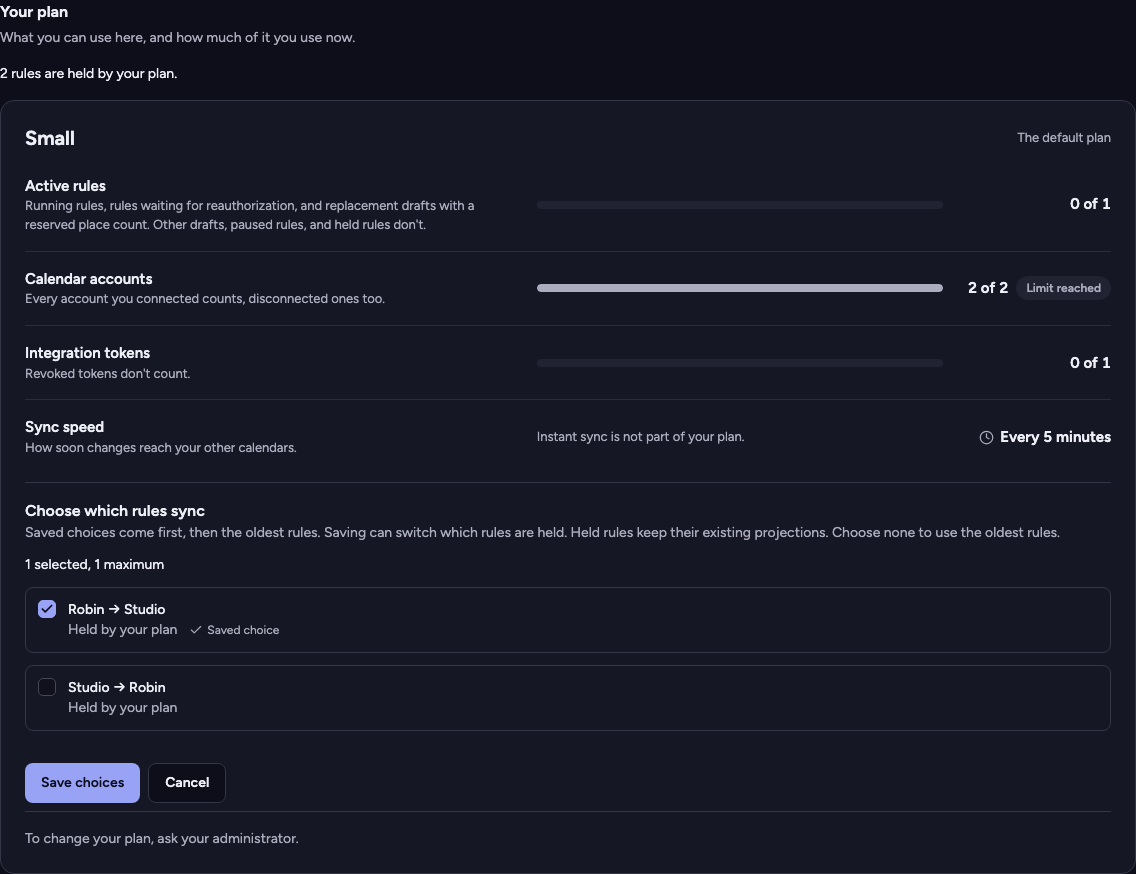
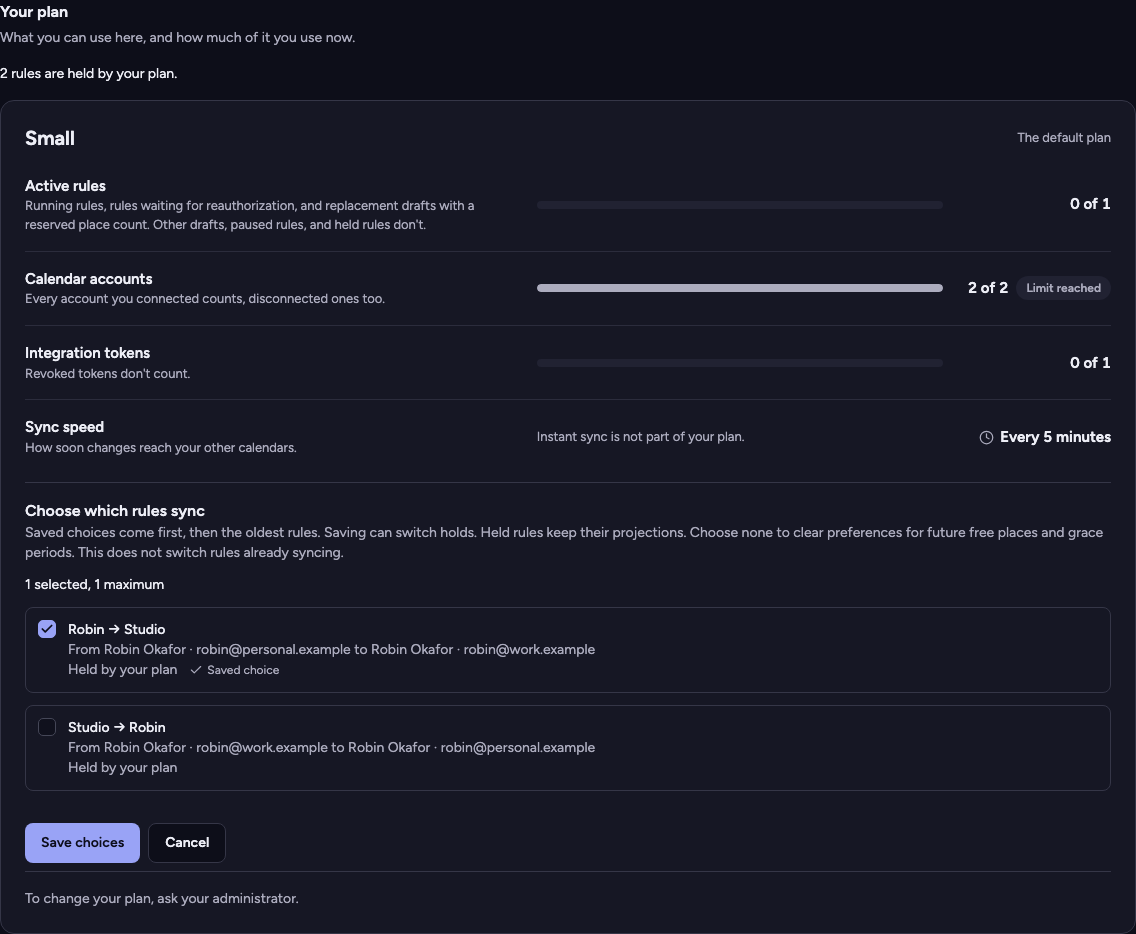
Show account identities in chooser review captures

diff --git a/docs/assets/reviews/plan-hold/README.md b/docs/assets/reviews/plan-hold/README.md
@@ -1,10 +1,12 @@
 # Plan Hold UI review captures
 
-Synthetic development preview only. Before: merged main262e8efd. After: PR3b implementation d011b084. Light and Twilight dark,1440 and390px. Your plan and Preview use section captures; Rules and Overview use viewport captures.
+Synthetic development preview only. Before: merged main262e8efd. After: PR3b implementation d011b084, with the chooser refreshed after the final review fix bbb14234. Light and Twilight dark,1440 and390px. Your plan and Preview use section captures; Rules and Overview use viewport captures.
 
 The baseline has a Household Plan with capacity1 and two held rules. The after fixture has a Small Plan with capacity1, two held rules and the first marked kept. Account/token allowances and plan names differ between fixtures. Dates and names are synthetic.
 
 Files are named `<before|after>-<surface>-<width>-<light|dark>.png`. Surfaces: `your-plan`, `rules`, `overview`, `preview-footer`.
+
+The refreshed chooser includes account identities to distinguish calendars with the same name. Its390px and200% text probes pass after that change. Other surfaces retain the same source and captures.
 
 The after keyboard flow reaches Your plan from Preview, focuses the heading, opens the chooser and focuses its legend. Choice and unchanged-save flows were also checked. Preview still shows17 results:14 writes and3 skipped.
 
